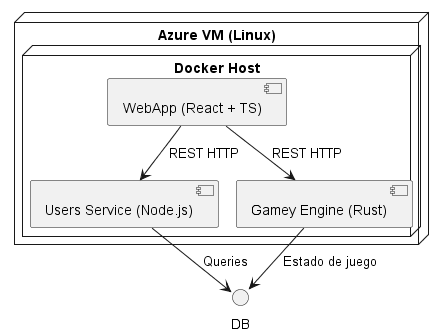
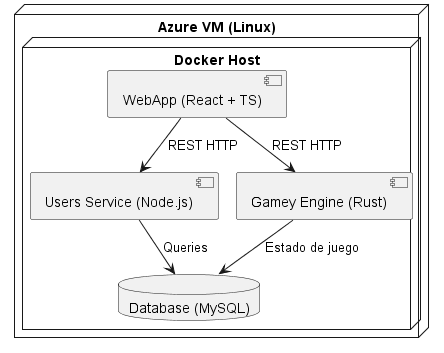
Updates

diff --git a/index.html b/index.html
@@ -1993,7 +1993,7 @@ Azure SQL Database gestiona la persistencia de datos.</p>
 </div>
 <div class="imageblock">
 <div class="content">
-<img src="./images/Docker%20Host%20Deployment.png" alt="Docker Host Deployment" width="444" height="336">
+<img src="./images/Docker%20Host%20Deployment.png" alt="Docker Host Deployment" width="444" height="353">
 </div>
 </div>
 <div class="paragraph">
@@ -2301,44 +2301,69 @@ There you will find links and examples about ADR.</p>
 </div>
 <div class="sect2">
 <h3 id="_mysql_como_bbdd_del_proyecto">9.1. MySQL como BBDD del proyecto</h3>
+<div class="dlist">
+<dl>
+<dt class="hdlist1">Estado</dt>
+<dd>
+<p>Aceptada.</p>
+</dd>
+<dt class="hdlist1">Contexto</dt>
+<dd>
+<p>Se requiere un sistema de persistencia para almacenar los datos de los usuarios, partidas y estado del juego.
+La solución debe ser flexible, integrarse correctamente con el ecosistema tecnológico elegido y facilitar el desarrollo y despliegue del proyecto.</p>
+</dd>
+<dt class="hdlist1">Alternativas consideradas</dt>
+<dd>
 <div class="ulist">
 <ul>
 <li>
-<p>Estado: Aceptada.</p>
+<p>Otras bases de datos relacionales.</p>
 </li>
 <li>
-<p>Contexto: Se requiere un sistema de persistencia para almacenar los datos de los usuarios, partidas y estado del juego. La solución debe ser flexible, integrarse correctamente con el ecosistema tecnológico elegido y facilitar el desarrollo y despliegue del proyecto.</p>
-</li>
-<li>
-<p>Alternativas: Otras bases de datos relacionales u bases de datos no relacionales.</p>
-</li>
-<li>
-<p>Justificación:</p>
-<div class="ulist">
-<ul>
-<li>
-<p>Modelo relacional: MySQL permite estructurar los datos en tablas normalizadas, ideal para usuarios, partidas y relaciones entre entidades del juego.</p>
-</li>
-<li>
-<p>Integridad de datos: Garantiza consistencia mediante claves primarias, foráneas y restricciones, evitando errores de duplicidad o pérdida de información.</p>
-</li>
-<li>
-<p>Madurez y soporte: MySQL es estable, ampliamente documentado y compatible con la mayoría de frameworks y lenguajes backend.</p>
-</li>
-<li>
-<p>Adopción del equipo de desarrollo: Es una técnologia que todo el equipo de desarrollador ha empleado en algún otro proyecto.</p>
-</li>
-<li>
-<p>Rendimiento: Adecuado para cargas moderadas, asegurando tiempos de respuesta rápidos en operaciones comunes.</p>
-</li>
-<li>
-<p>Facilidad de despliegue Compatible con Docker y entornos cloud, lo que facilita levantar instancias de forma reproducible.</p>
+<p>Bases de datos no relacionales.</p>
 </li>
 </ul>
 </div>
-</li>
-<li>
-<p>Consecuencias</p>
+</dd>
+<dt class="hdlist1">Justificación</dt>
+</dl>
+</div>
+<table class="tableblock frame-all grid-all stretch">
+<colgroup>
+<col style="width: 20%;">
+<col style="width: 80%;">
+</colgroup>
+<tbody>
+<tr>
+<td class="tableblock halign-left valign-top"><p class="tableblock">Modelo relacional</p></td>
+<td class="tableblock halign-left valign-top"><p class="tableblock">MySQL permite estructurar los datos en tablas normalizadas, ideal para usuarios, partidas y relaciones entre entidades del juego.</p></td>
+</tr>
+<tr>
+<td class="tableblock halign-left valign-top"><p class="tableblock">Integridad de datos</p></td>
+<td class="tableblock halign-left valign-top"><p class="tableblock">Garantiza consistencia mediante claves primarias, foráneas y restricciones, evitando errores de duplicidad o pérdida de información.</p></td>
+</tr>
+<tr>
+<td class="tableblock halign-left valign-top"><p class="tableblock">Madurez y soporte</p></td>
+<td class="tableblock halign-left valign-top"><p class="tableblock">MySQL es estable, ampliamente documentado y compatible con la mayoría de frameworks y lenguajes backend.</p></td>
+</tr>
+<tr>
+<td class="tableblock halign-left valign-top"><p class="tableblock">Adopción del equipo de desarrollo</p></td>
+<td class="tableblock halign-left valign-top"><p class="tableblock">Es una tecnología que todo el equipo de desarrollador ha empleado en algún otro proyecto.</p></td>
+</tr>
+<tr>
+<td class="tableblock halign-left valign-top"><p class="tableblock">Rendimiento</p></td>
+<td class="tableblock halign-left valign-top"><p class="tableblock">Adecuado para cargas moderadas, asegurando tiempos de respuesta rápidos en operaciones comunes.</p></td>
+</tr>
+<tr>
+<td class="tableblock halign-left valign-top"><p class="tableblock">Facilidad de despliegue</p></td>
+<td class="tableblock halign-left valign-top"><p class="tableblock">Compatible con Docker y entornos cloud, lo que facilita levantar instancias de forma reproducible.</p></td>
+</tr>
+</tbody>
+</table>
+<div class="dlist">
+<dl>
+<dt class="hdlist1">Consecuencias</dt>
+<dd>
 <div class="ulist">
 <ul>
 <li>
@@ -2352,53 +2377,85 @@ There you will find links and examples about ADR.</p>
 </li>
 </ul>
 </div>
-</li>
-</ul>
+</dd>
+</dl>
 </div>
 </div>
 <div class="sect2">
 <h3 id="_azure_como_infraestructura_de_despliegue_máquina_virtual">9.2. Azure como infraestructura de despliegue (Máquina Virtual)</h3>
+<div class="dlist">
+<dl>
+<dt class="hdlist1">Estado</dt>
+<dd>
+<p>Aceptada.</p>
+</dd>
+<dt class="hdlist1">Contexto</dt>
+<dd>
+<p>Se requiere un entorno donde desplegar la aplicación backend, la base de datos y los servicios asociados, garantizando disponibilidad, escalabilidad y acceso remoto seguro.
+La solución debe integrarse fácilmente con el ecosistema tecnológico del proyecto y permitir un despliegue sencillo y controlado.</p>
+</dd>
+<dt class="hdlist1">Alternativas consideradas</dt>
+<dd>
 <div class="ulist">
 <ul>
 <li>
-<p>Estado: Aceptada.</p>
+<p>AWS EC2.</p>
 </li>
 <li>
-<p>Contexto: Se requiere un entorno donde desplegar la aplicación backend, la base de datos y los servicios asociados, garantizando disponibilidad, escalabilidad y acceso remoto seguro. La solución debe integrarse fácilmente con el ecosistema tecnológico del proyecto y permitir un despliegue sencillo y controlado.</p>
+<p>Google Compute Engine.</p>
 </li>
 <li>
-<p>Alternativas: AWS EC2, Google Compute Engine, servidores on-premise u otros proveedores cloud.</p>
+<p>Servidores on-premise.</p>
 </li>
 <li>
-<p>Justificación:</p>
-<div class="ulist">
-<ul>
-<li>
-<p>Adopción del equipo de desarrollo: Es una técnologia que todo el equipo de desarrollador ha empleado en algún otro proyecto.</p>
-</li>
-<li>
-<p>Infraestructura como servicio (IaaS): Azure permite crear y configurar máquinas virtuales con control total sobre el sistema operativo y el entorno de ejecución.</p>
-</li>
-<li>
-<p>Escalabilidad: Posibilidad de aumentar recursos (CPU, RAM, almacenamiento) según crezcan las necesidades del proyecto.</p>
-</li>
-<li>
-<p>Alta disponibilidad: Integración con servicios de red, copias de seguridad y monitorización dentro del ecosistema Azure.</p>
-</li>
-<li>
-<p>Integración con el entorno cloud: Compatible con Docker, CI/CD y otros servicios gestionados del ecosistema Azure.</p>
-</li>
-<li>
-<p>Seguridad: Configuración de redes virtuales, grupos de seguridad y control de acceso basado en roles.</p>
-</li>
-<li>
-<p>Flexibilidad: Permite alojar tanto la aplicación como la base de datos en un mismo entorno o separarlos en distintas máquinas virtuales según necesidades.</p>
+<p>Otros proveedores cloud.</p>
 </li>
 </ul>
 </div>
-</li>
-<li>
-<p>Consecuencias:</p>
+</dd>
+<dt class="hdlist1">Justificación</dt>
+</dl>
+</div>
+<table class="tableblock frame-all grid-all stretch">
+<colgroup>
+<col style="width: 20%;">
+<col style="width: 80%;">
+</colgroup>
+<tbody>
+<tr>
+<td class="tableblock halign-left valign-top"><p class="tableblock">Adopción del equipo de desarrollo</p></td>
+<td class="tableblock halign-left valign-top"><p class="tableblock">Es una tecnología que todo el equipo de desarrollador ha empleado en algún otro proyecto.</p></td>
+</tr>
+<tr>
+<td class="tableblock halign-left valign-top"><p class="tableblock">Infraestructura como servicio (IaaS)</p></td>
+<td class="tableblock halign-left valign-top"><p class="tableblock">Azure permite crear y configurar máquinas virtuales con control total sobre el sistema operativo y el entorno de ejecución.</p></td>
+</tr>
+<tr>
+<td class="tableblock halign-left valign-top"><p class="tableblock">Escalabilidad</p></td>
+<td class="tableblock halign-left valign-top"><p class="tableblock">Posibilidad de aumentar recursos (CPU, RAM, almacenamiento) según crezcan las necesidades del proyecto.</p></td>
+</tr>
+<tr>
+<td class="tableblock halign-left valign-top"><p class="tableblock">Alta disponibilidad</p></td>
+<td class="tableblock halign-left valign-top"><p class="tableblock">Integración con servicios de red, copias de seguridad y monitorización dentro del ecosistema Azure.</p></td>
+</tr>
+<tr>
+<td class="tableblock halign-left valign-top"><p class="tableblock">Integración con el entorno cloud</p></td>
+<td class="tableblock halign-left valign-top"><p class="tableblock">Compatible con Docker, CI/CD y otros servicios gestionados del ecosistema Azure.</p></td>
+</tr>
+<tr>
+<td class="tableblock halign-left valign-top"><p class="tableblock">Seguridad</p></td>
+<td class="tableblock halign-left valign-top"><p class="tableblock">Configuración de redes virtuales, grupos de seguridad y control de acceso basado en roles.</p></td>
+</tr>
+<tr>
+<td class="tableblock halign-left valign-top"><p class="tableblock">Flexibilidad</p></td>
+<td class="tableblock halign-left valign-top"><p class="tableblock">Permite alojar tanto la aplicación como la base de datos en un mismo entorno o separarlos en distintas máquinas virtuales según necesidades.</p></td>
+</tr>
+</tbody>
+</table>
+<div class="dlist">
+<dl>
+<dt class="hdlist1">Consecuencias</dt>
+<dd>
 <div class="ulist">
 <ul>
 <li>
@@ -2415,8 +2472,8 @@ There you will find links and examples about ADR.</p>
 </li>
 </ul>
 </div>
-</li>
-</ul>
+</dd>
+</dl>
 </div>
 <div style="page-break-after: always;"></div>
 </div>
@@ -2449,56 +2506,10 @@ concrete and measurable.</p>
 </div>
 <div class="sect2">
 <h3 id="_quality_tree">10.1. Quality Tree</h3>
-<div class="ulist">
-<ul>
-<li>
-<p><strong>Calidad del Sistema</strong></p>
-<div class="ulist">
-<ul>
-<li>
-<p><strong>Usabilidad</strong></p>
-<div class="ulist">
-<ul>
-<li>
-<p>Interfaz intuitiva y fácil de aprender.</p>
-</li>
-</ul>
+<div class="imageblock">
+<div class="content">
+<img src="./images/quality-tree.svg" alt="quality tree" width="1137" height="252">
 </div>
-</li>
-<li>
-<p><strong>Rendimiento</strong></p>
-<div class="ulist">
-<ul>
-<li>
-<p>Tiempo de respuesta bajo durante la partida.</p>
-</li>
-</ul>
-</div>
-</li>
-<li>
-<p><strong>Mantenibilidad</strong></p>
-<div class="ulist">
-<ul>
-<li>
-<p>Código modular y fácil de modificar o ampliar.</p>
-</li>
-</ul>
-</div>
-</li>
-<li>
-<p><strong>Fiabilidad</strong></p>
-<div class="ulist">
-<ul>
-<li>
-<p>Manejo adecuado de errores y mantenimiento de la coherencia del estado del juego ante fallos o situaciones inesperadas.</p>
-</li>
-</ul>
-</div>
-</li>
-</ul>
-</div>
-</li>
-</ul>
 </div>
 <div class="sidebarblock arc42help">
 <div class="content">
